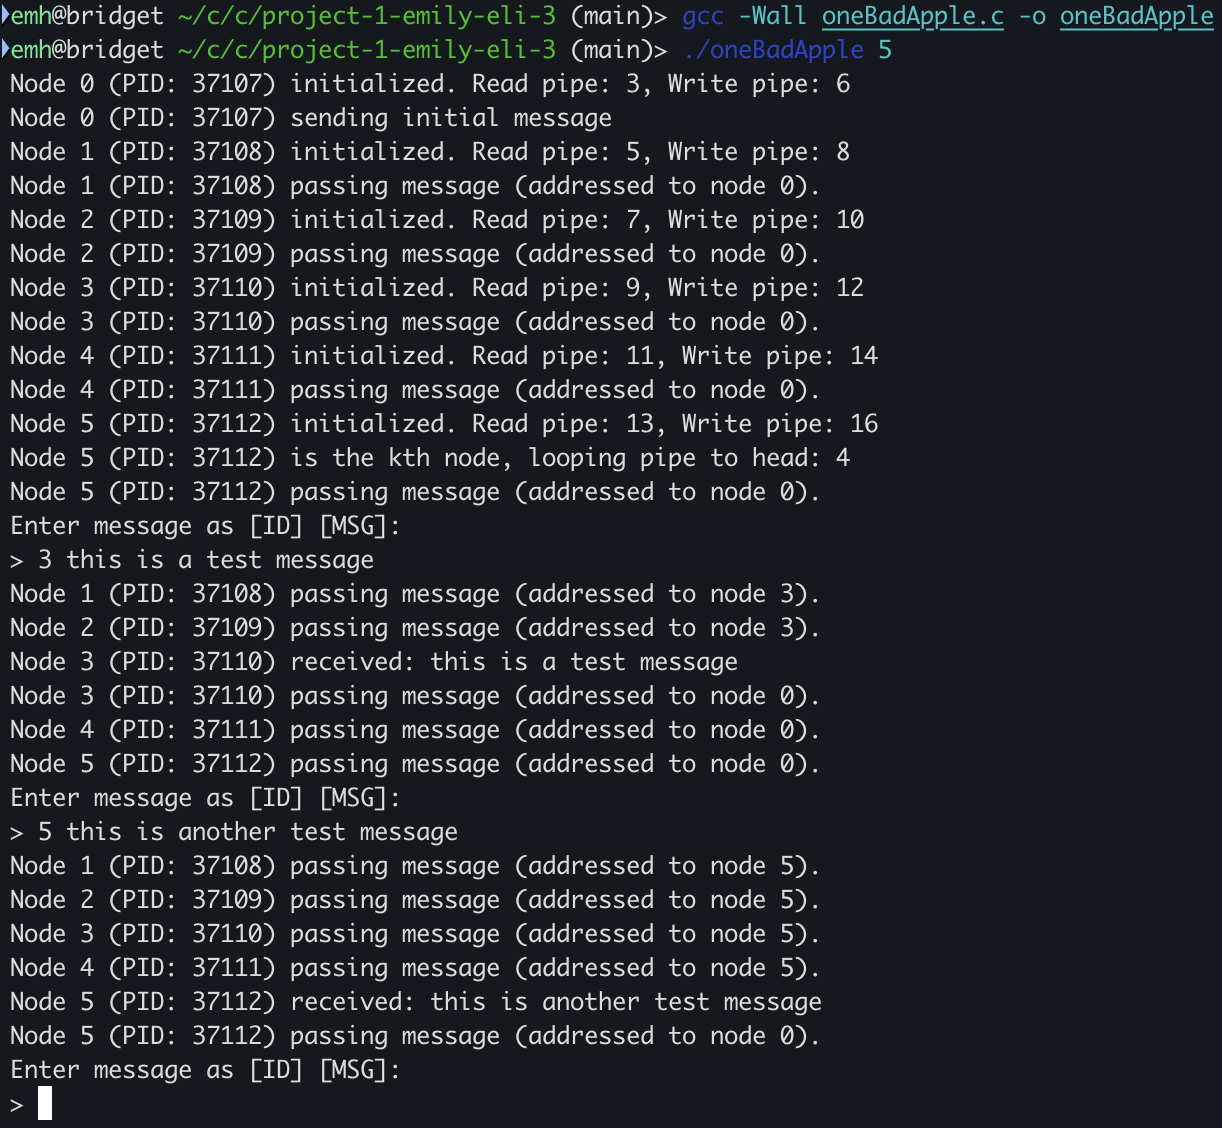
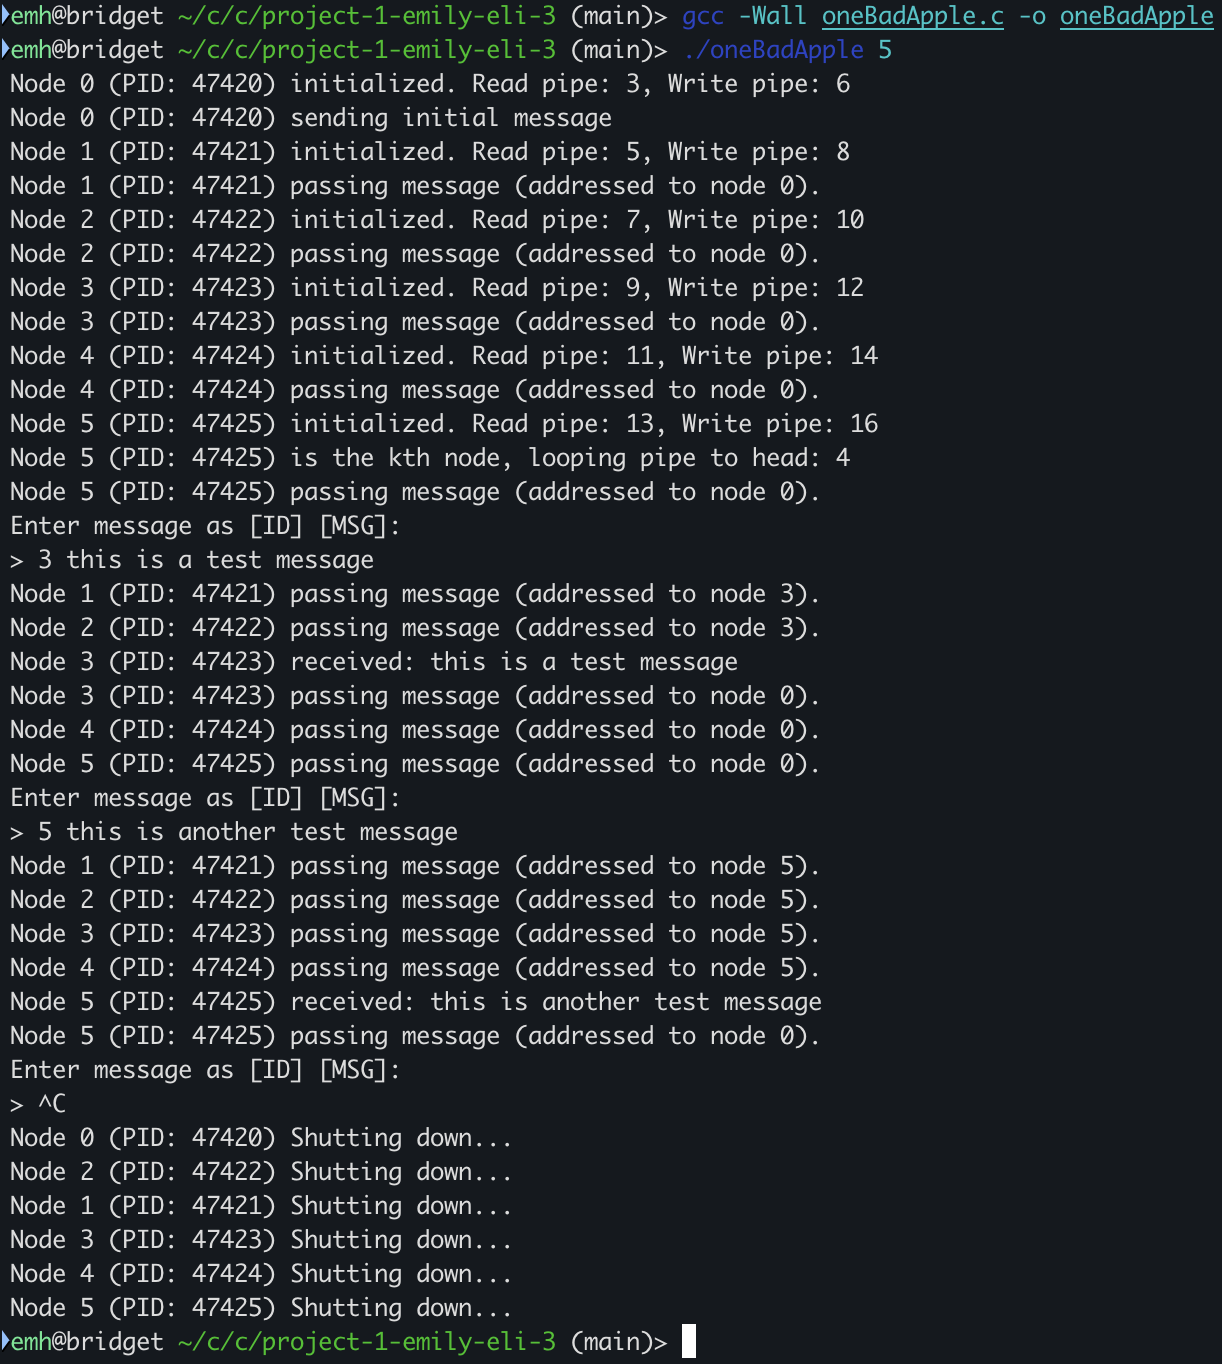
Improve documentation

Changed region(s): [[0.0, 0.0, 0.9951, 0.9929], [0.4664, 0.9619, 0.5908, 1.0]]

diff --git a/oneBadApple.c b/oneBadApple.c
@@ -37,7 +37,7 @@ void shutdown(int sig) {
         kill(next_node, SIGUSR1);
         free(buffer);
         printf("\nNode %d (PID: %d) Shutting down...\n", node_id, getpid());
-    } else if (sig == SIGUSR1 && next_node != 0) {
+    } else if (sig == SIGUSR1) {
         if (next_node != 0) {
             kill(next_node, SIGUSR1);
         } 
@@ -90,7 +90,6 @@ void msg_loop(const int PREV_READ_PIPE, const int NEXT_WRITE_PIPE) {
 };
 
 void input_loop(const int PREV_READ_PIPE, const int NEXT_WRITE_PIPE, int k_nodes) {
-    pid_t pid = getpid();
     struct Message *msg = malloc(sizeof(struct Message));
 
     if (msg == NULL) {

diff --git a/Doc/design.md b/Doc/design.md
@@ -6,14 +6,16 @@ Each node in the ring except the first is a separate, identical process that rec
 
 Nodes may only send **one** per message recieved. But any number of diagnostic logs may be written by any node at any time to stdo.
 
-On Ctrl+C a graceful shutdown will initiate. A shutdown message is sent to the next node before shutting down.
+On Ctrl+C a graceful shutdown will initiate. Each node will send a signal to the next node before shutting down.
 ```
 Example Shutdown Order, k=3:
 [N0] -kill-> [N1]
 [N1] -kill-> [N2]
 [N2] -kill-> [N3]
-[N3] -kill-> [N0]
 ```
+
+## Example Usage
+![Example Usage](/img/example.png)
 
 ## Data Architecture & Specification
 
@@ -23,5 +25,3 @@ Example Shutdown Order, k=3:
 ![Pass Message Diagram](/img/ouroborosMessengerCommunicationDiagram-Pass%20Message.drawio.png)
 ### Check Message
 ![Check Message Diagram](/img/ouroborosMessengerCommunicationDiagram-Message.drawio.png)
-### Example Usage
-![Example Usage](/img/example.png)
